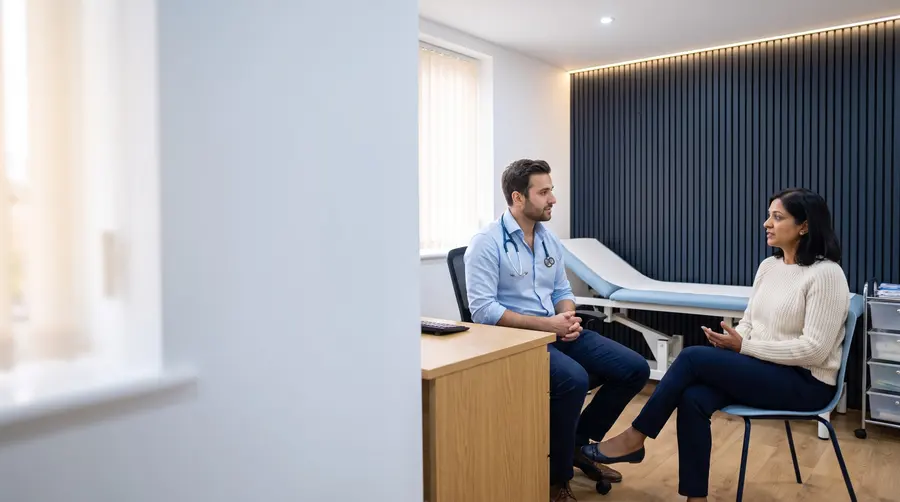
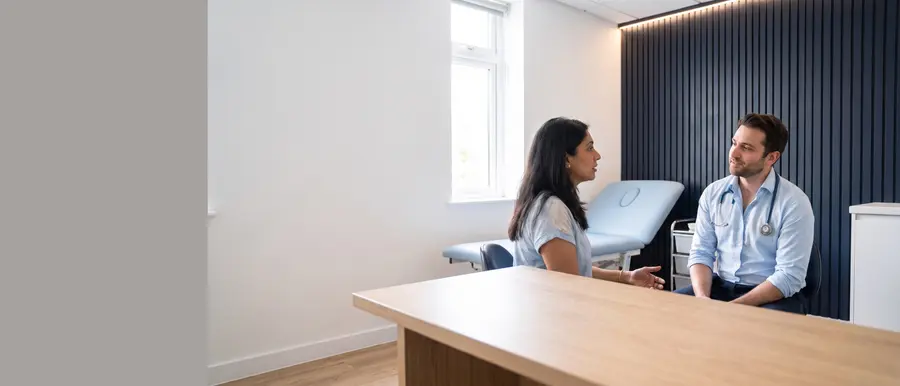
Add E2 Media award badge, fix split hero image, match review badges
- E2 Media Award of Excellence 2026 badge: recomposed from the supplied
  Instagram screenshot into a wide navy badge with Nano Banana Pro (a
  black variant is kept in assets/brand), cropped and padded, and added
  to the trust bar and the awards row.
- Hero: regenerated as one continuous room so the left half is no
  longer a separate blurred panel; the plain wall is extended on the
  left under the text overlay and the crop tuned per breakpoint.
- Hero badges: Google logo added and both review badges set to the same
  height; the Doctify award badge removed from the hero (it stays in the
  trust bar).

Claude-Session: https://claude.ai/code/session_01BfDfekHkooqy5vkZfJmkhr

diff --git a/public/assets/css/styles.css b/public/assets/css/styles.css
@@ -183,20 +183,22 @@ section[id], article[id] { scroll-margin-top: calc(var(--header-h) + 0.75rem); }
 }
 .badge strong { font-family: var(--font-display); font-size: 1.05rem; font-weight: 800; }
 .badge .stars { color: #F5A623; letter-spacing: -1px; font-size: 0.85rem; }
-.badge img { height: 26px; width: auto; }
-.badge-award { padding: 0; overflow: hidden; }
-.badge-award img { height: 52px; }
+.badge { height: 3.75rem; padding: 0 1rem 0 0.85rem; }
+.badge-logo { display: inline-flex; align-items: center; gap: 0.4rem; height: 26px; padding-right: 0.7rem; border-right: 1px solid var(--line); }
+.badge-logo img { height: 26px; width: auto; }
+.badge-google svg { width: 26px; height: 26px; }
+.badge-google > span { font-family: var(--font-display); font-weight: 700; font-size: 1.15rem; letter-spacing: -0.01em; color: #5F6368; }
 
 @media (min-width: 900px) {
   .hero { min-height: 100svh; display: grid; align-items: center; padding-top: var(--header-h); }
   .hero-media { position: absolute; inset: 0; }
-  .hero-media img { height: 100%; aspect-ratio: auto; object-position: 68% center; }
-  .hero-media::after { inset: 0; height: auto; background: linear-gradient(90deg, rgba(234,244,251,0.97) 0%, rgba(234,244,251,0.93) 30%, rgba(234,244,251,0.55) 48%, rgba(234,244,251,0) 62%); }
+  .hero-media img { height: 100%; aspect-ratio: auto; object-position: 50% center; }
+  .hero-media::after { inset: 0; height: auto; background: linear-gradient(90deg, rgba(234,244,251,0.97) 0%, rgba(234,244,251,0.93) 30%, rgba(234,244,251,0.5) 46%, rgba(234,244,251,0) 58%); }
   .hero-body { margin: 0; padding: 4rem 0 6rem; width: min(var(--container), 100% - 2 * var(--gutter)); margin-inline: auto; }
   .hero-copy { max-width: 40rem; }
   .hero-badges { position: absolute; right: var(--gutter); bottom: 2rem; margin: 0; justify-content: flex-end; }
 }
-@media (min-width: 1400px) {
+@media (min-width: 900px) and (max-width: 1599px) {
   .hero-media img { object-position: 62% center; }
 }
 
@@ -207,6 +209,7 @@ section[id], article[id] { scroll-margin-top: calc(var(--header-h) + 0.75rem); }
 .trust-logos { display: flex; align-items: center; gap: 1.25rem 2.2rem; flex-wrap: wrap; justify-content: center; }
 .trust-logos img { height: 40px; width: auto; }
 .trust-logos .doctify-award { height: 56px; border-radius: 8px; }
+.trust-logos .e2-award { height: 56px; border-radius: 8px; border: 1px solid rgba(255,255,255,0.18); }
 .trust-logos .cqc { height: 44px; border-radius: 6px; }
 .reg-mark {
   display: inline-flex; flex-direction: column; align-items: flex-start; line-height: 1;
@@ -291,6 +294,8 @@ section[id], article[id] { scroll-margin-top: calc(var(--header-h) + 0.75rem); }
 .awards li { display: inline-flex; flex-direction: column; gap: 0.15rem; padding: 0.75rem 1.1rem; border-radius: 14px; background: var(--mist); border: 1px solid var(--line); line-height: 1.2; }
 .awards li b { font-family: var(--font-display); font-weight: 700; color: var(--navy); font-size: var(--t-sm); }
 .awards li span { font-size: var(--t-xs); color: var(--muted); }
+.awards .award-img { padding: 0; background: none; border: 0; }
+.awards .award-img img { height: 3.6rem; width: auto; border-radius: 14px; box-shadow: var(--shadow-sm); }
 .awards .award-lead { background: var(--navy); border-color: var(--navy); flex-basis: 100%; padding: 1rem 1.25rem; }
 .awards .award-lead b { color: #fff; font-size: 1.15rem; }
 .awards .award-lead span { color: var(--sky); }

diff --git a/public/index.html b/public/index.html
@@ -134,15 +134,16 @@
     </div>
     <div class="hero-badges">
       <a class="badge" href="https://maps.app.goo.gl/KWaXPmD4ticL5Gbr7" target="_blank" rel="noopener">
+        <span class="badge-logo badge-google" aria-label="Google">
+          <svg viewBox="0 0 48 48" aria-hidden="true"><path fill="#EA4335" d="M24 9.5c3.54 0 6.71 1.22 9.21 3.6l6.85-6.85C35.9 2.38 30.47 0 24 0 14.62 0 6.51 5.38 2.56 13.22l7.98 6.19C12.43 13.72 17.74 9.5 24 9.5z"/><path fill="#4285F4" d="M46.98 24.55c0-1.57-.15-3.09-.38-4.55H24v9.02h12.94c-.58 2.96-2.26 5.48-4.78 7.18l7.73 6c4.51-4.18 7.09-10.36 7.09-17.65z"/><path fill="#FBBC05" d="M10.53 28.59c-.48-1.45-.76-2.99-.76-4.59s.27-3.14.76-4.59l-7.98-6.19C.92 16.46 0 20.12 0 24c0 3.88.92 7.54 2.56 10.78l7.97-6.19z"/><path fill="#34A853" d="M24 48c6.48 0 11.93-2.13 15.89-5.81l-7.73-6c-2.15 1.45-4.92 2.3-8.16 2.3-6.26 0-11.57-4.22-13.47-9.91l-7.98 6.19C6.51 42.62 14.62 48 24 48z"/></svg>
+          <span>Google</span>
+        </span>
         <span><strong>5.0</strong> <span class="stars" aria-hidden="true">★★★★★</span><br>250+ Google reviews</span>
       </a>
       <a class="badge" href="https://www.doctify.com/uk/practice/niva-medical-clinic" target="_blank" rel="noopener">
-        <img src="/assets/logos/doctify.svg" alt="Doctify" width="90" height="24">
+        <span class="badge-logo"><img src="/assets/logos/doctify.svg" alt="Doctify" width="90" height="24"></span>
         <span><strong>5.0</strong> <span class="stars" aria-hidden="true">★★★★★</span><br>104 verified reviews</span>
       </a>
-      <span class="badge badge-award">
-        <img src="/assets/logos/doctify-award.webp" alt="Doctify Great Patient Experience award 2026" width="120" height="69">
-      </span>
     </div>
   </div>
 </section>
@@ -157,6 +158,7 @@
       <span class="reg-mark" title="Royal College of General Practitioners"><b>RCGP</b><span>member GPs</span></span>
       <span class="reg-mark" title="Health and Care Professions Council"><b>HCPC</b><span>registered clinicians</span></span>
       <img class="doctify-award" src="/assets/logos/doctify-award.webp" alt="Doctify Great Patient Experience 2026" width="899" height="519">
+      <img class="e2-award" src="/assets/logos/e2media-award.webp" alt="E2 Media Award of Excellence 2026, presented to Niva Medical Clinic" width="700" height="322">
     </div>
   </div>
 </section>
@@ -239,7 +241,7 @@
     <ul class="awards" aria-label="Awards">
       <li class="award-lead"><b>Best Private Healthcare Provider 2026, Harrow</b><span>Global Health &amp; Pharma</span></li>
       <li><b>Global Awards</b><span>Winner</span></li>
-      <li><b>E2Media Awards</b><span>Winner</span></li>
+      <li class="award-img"><img src="/assets/logos/e2media-award.webp" alt="E2 Media Award of Excellence 2026, presented to Niva Medical Clinic" width="700" height="322" loading="lazy"></li>
       <li><b>She Awards</b><span>Winner, Dr Bhavika Vagani</span></li>
       <li><b>Startup Awards London</b><span>Finalist</span></li>
     </ul>
